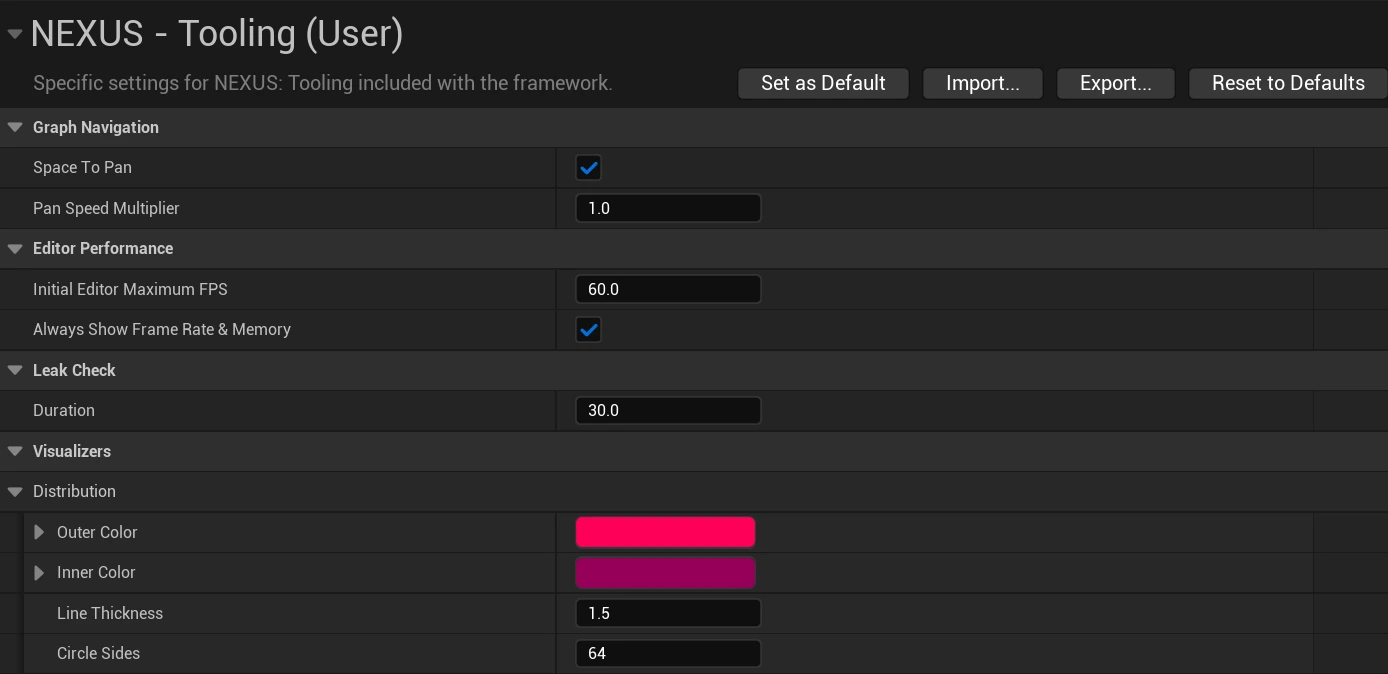
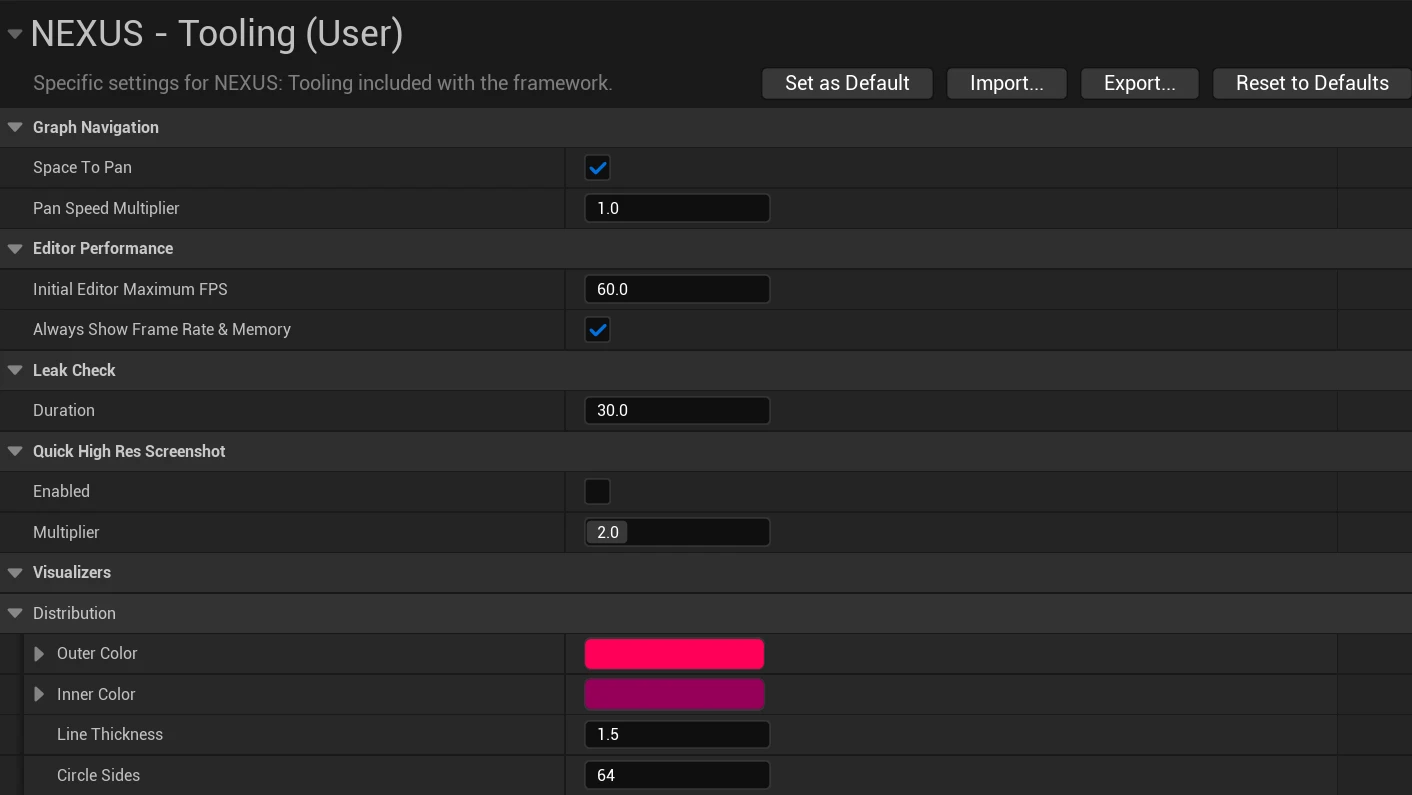
Automated updates

diff --git a/docs/plugins/tooling/enhancements/quick-highres-screenshot.md b/docs/plugins/tooling/enhancements/quick-highres-screenshot.md
@@ -11,7 +11,7 @@ It is deliberately a *modified* <kbd>F9</kbd> — bare <kbd>F9</kbd> is the engi
 
 :::info[Off by default]
 
-Turn it on at `Edit > Editor Preferences > NEXUS > Tooling (User) > Quick HighRes Screenshot > Enabled`, then **restart the editor**. See [User Settings](../user-settings.md#quick-highres-screenshot).
+Turn it on at `Edit > Editor Preferences > NEXUS > Tooling (User) > Quick High Res Screenshot > Enabled`, then **restart the editor**. See [User Settings](../user-settings.md#quick-highres-screenshot).
 
 It ships off because it claims <kbd>Alt</kbd>+<kbd>F9</kbd> for as long as it is on. Leaving it off keeps the entry out of `Editor Preferences > Keyboard Shortcuts` entirely, so the chord stays free for something else. It is a per-user rather than per-project setting for the same reason: what it costs a developer who does not want it is a keybinding, and keybindings are a personal matter.
 
@@ -38,7 +38,7 @@ The engine raises its own toast naming the written file, with an **Open Folder**
 
 ## The Multiplier
 
-`Tooling (User) > Quick HighRes Screenshot > Multiplier`, default `2.0`, clamped `0.5`–`5.0`.
+`Tooling (User) > Quick High Res Screenshot > Multiplier`, default `2.0`, clamped `0.5`–`5.0`.
 
 It is read **at capture time** rather than cached, so an edit takes effect on the very next keypress — set it, shoot, adjust, shoot again without restarting anything.
 

diff --git a/docs/plugins/tooling/editor-types/tooling-editor-bindings.md b/docs/plugins/tooling/editor-types/tooling-editor-bindings.md
@@ -67,7 +67,7 @@ Once PIE has focus, key events go to the game viewport and are forwarded to `UEd
 
 ## Registration Is Gated
 
-The whole context is registered only when [`Tooling (User) > Quick HighRes Screenshot > Enabled`](../user-settings.md#quick-highres-screenshot) is on. That setting is marked `ConfigRestartRequired` because registration happens once at post-engine-init.
+The whole context is registered only when [`Tooling (User) > Quick High Res Screenshot > Enabled`](../user-settings.md#quick-highres-screenshot) is on. That setting is marked `ConfigRestartRequired` because registration happens once at post-engine-init.
 
 Leaving it unregistered is the point: an unregistered command does not appear in `Editor Preferences > Keyboard Shortcuts` at all, which leaves <kbd>Alt</kbd>+<kbd>F9</kbd> genuinely free for something else rather than merely inert.
 

diff --git a/docs/plugins/tooling/user-settings.md b/docs/plugins/tooling/user-settings.md
@@ -47,7 +47,7 @@ See [Performance](enhancements/performance.md).
 
 ### Quick HighRes Screenshot
 
-One keypress captures the active viewport at a multiple of its own size and writes it to `Saved/Screenshots`. See [Quick HighRes Screenshot](enhancements/quick-highres-screenshot.md) for the workflow.
+Listed in the panel as **Quick High Res Screenshot**. One keypress captures the active viewport at a multiple of its own size and writes it to `Saved/Screenshots`. See [Quick HighRes Screenshot](enhancements/quick-highres-screenshot.md) for the workflow.
 
 | Setting | Type | Description | Default |
 | :-- | :-- | :-- | :-- |
